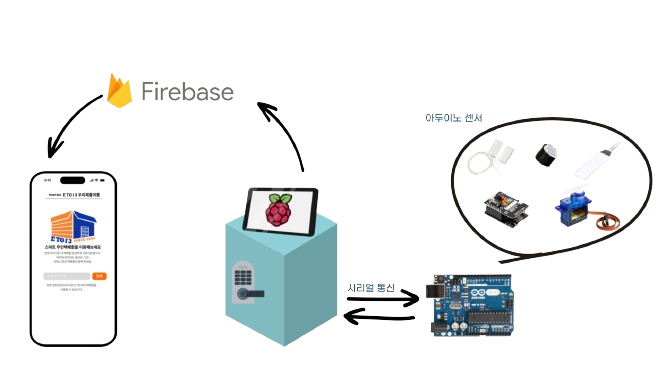
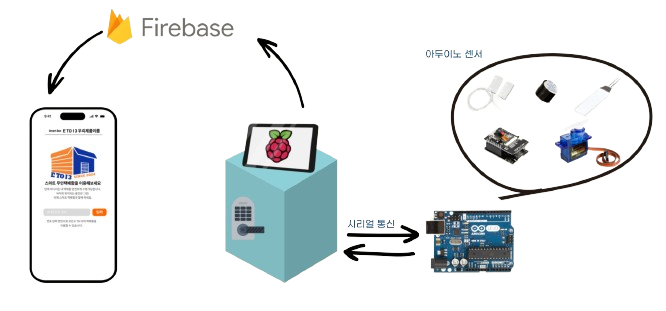
사진 배율 조정

diff --git a/README.md b/README.md
@@ -69,15 +69,12 @@
 <br>
 
 ## 🔎 프로젝트 구성도
-<img src="https://github.com/EtoI3/PKNU-IoT-5-/blob/main/imgs/프로젝트 구성도.png">
+<img src="https://github.com/EtoI3/PKNU-IoT-5-/blob/main/imgs/프로젝트 구성도.png" height="300" width="600">
 
 ## 🎥 프로젝트 최종
 ### 구현 모습
-#### 정면
-<img src="https://github.com/EtoI3/PKNU-IoT-5-/blob/main/imgs/정면.jpg">
-
-#### 측면
-<img src="https://github.com/EtoI3/PKNU-IoT-5-/blob/main/imgs/측면.jpg">
+|<img width="300px" src="https://github.com/EtoI3/PKNU-IoT-5-/blob/main/imgs/정면.jpg"/>|<img width="300px" src="https://github.com/EtoI3/PKNU-IoT-5-/blob/main/imgs/측면.jpg"/>
+|🔼 정면 모습|🔼 측면 모습|
 
 #### 물건 보관/찾기
 
